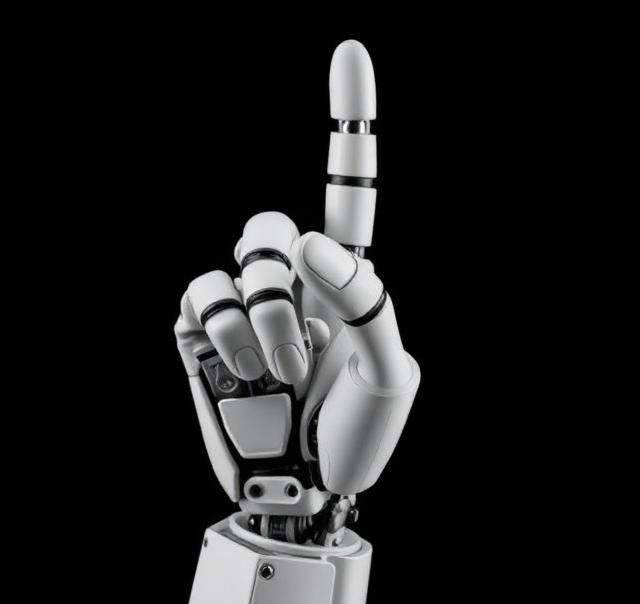
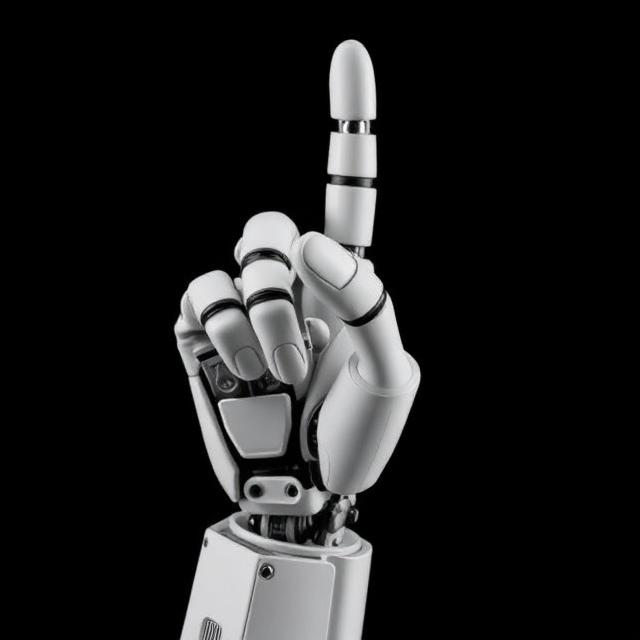
go

Changed region(s): [[0.25, 0.2682, 0.6562, 1.0], [0.5, 0.1788, 0.5938, 0.2384], [0.5, 0.0596, 0.5938, 0.1192]]

diff --git a/src/home/Home.jsx b/src/home/Home.jsx
@@ -108,9 +108,9 @@ const Home = () => {
 </div>
 
 
- <Parallax strength={900}  height={600}>
-        <Background  style={{width:'100vw'}} className='celll bg-black '  >
-         <img src={bot} alt="" className='w-[100vw] mt-20 h-full object-contain' />
+ <Parallax strength={900}  height={200}>
+        <Background  style={{width:'100vw'}} className='celly bg-black '  >
+         <img src={bot} alt="" className='w-[100vw]  mb-0 h-full object-contain' />
   
         
 

diff --git a/src/services/Quote.jsx b/src/services/Quote.jsx
@@ -78,7 +78,7 @@ const Quote = () => {
   }, [])
 
   return (
-    <div className={`${styles.flexCenter}   items-center letter-shade justify-center mx-auto text-center min-h-[400px]`}>
+    <div className={`${styles.flexCenter}   items-center letter-shade justify-center  mx-auto text-center min-h-[400px]`}>
       <div className='mx-auto max-w-4xl'>
         <div className=' mt-10'></div>
 

diff --git a/src/index.css b/src/index.css
@@ -1007,6 +1007,11 @@ color: #fff !important;
 
 
 
+.celly{
+ 
+  width: 100vw;
+  height: 190vh;
+}
 .celll{
  
   width: 100vw;
